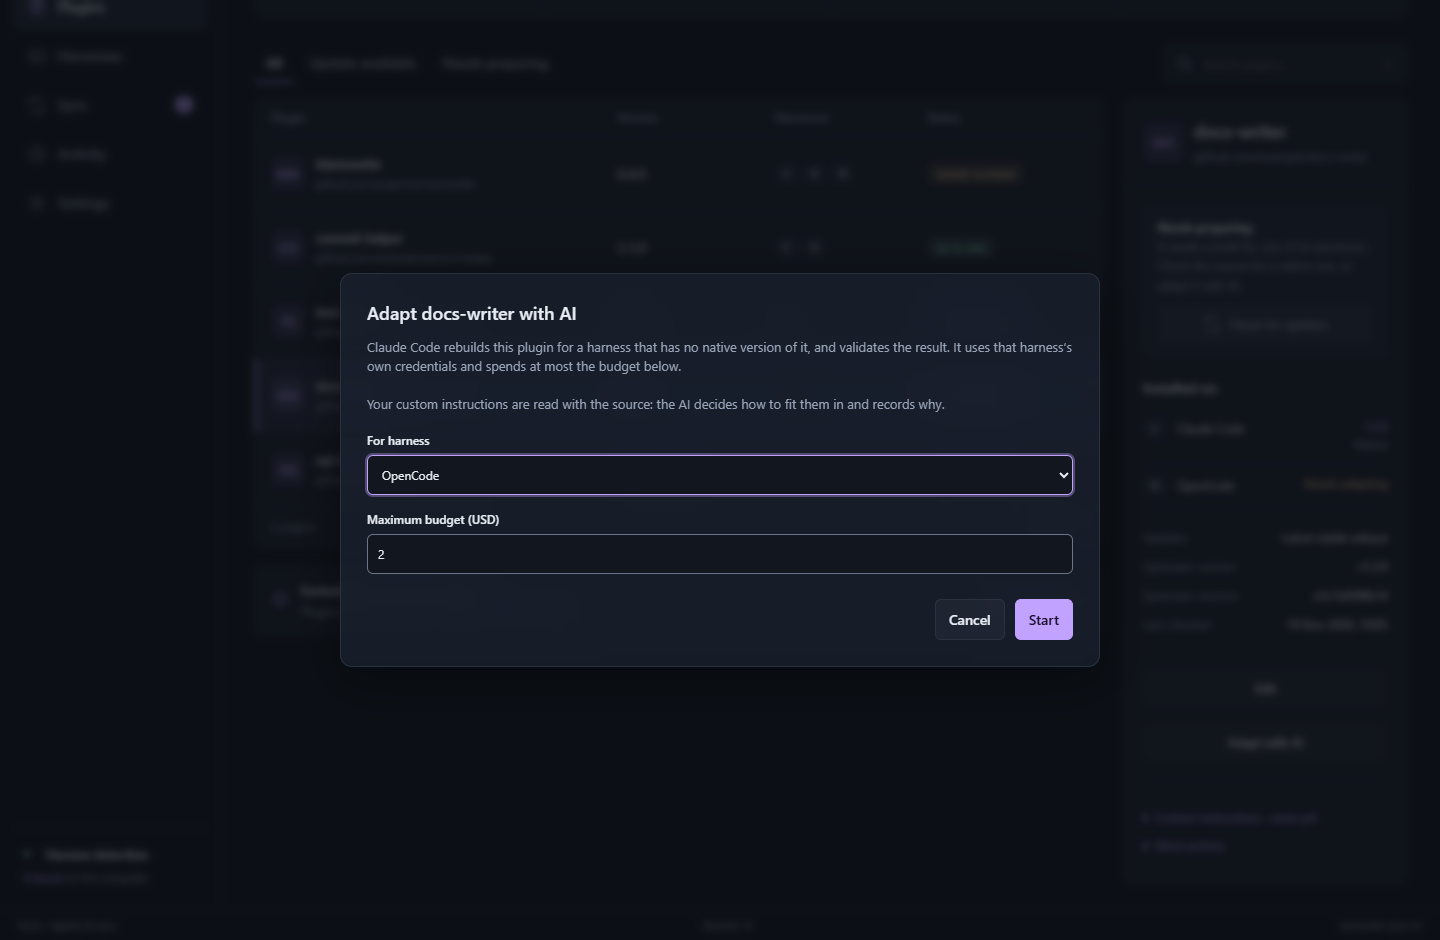
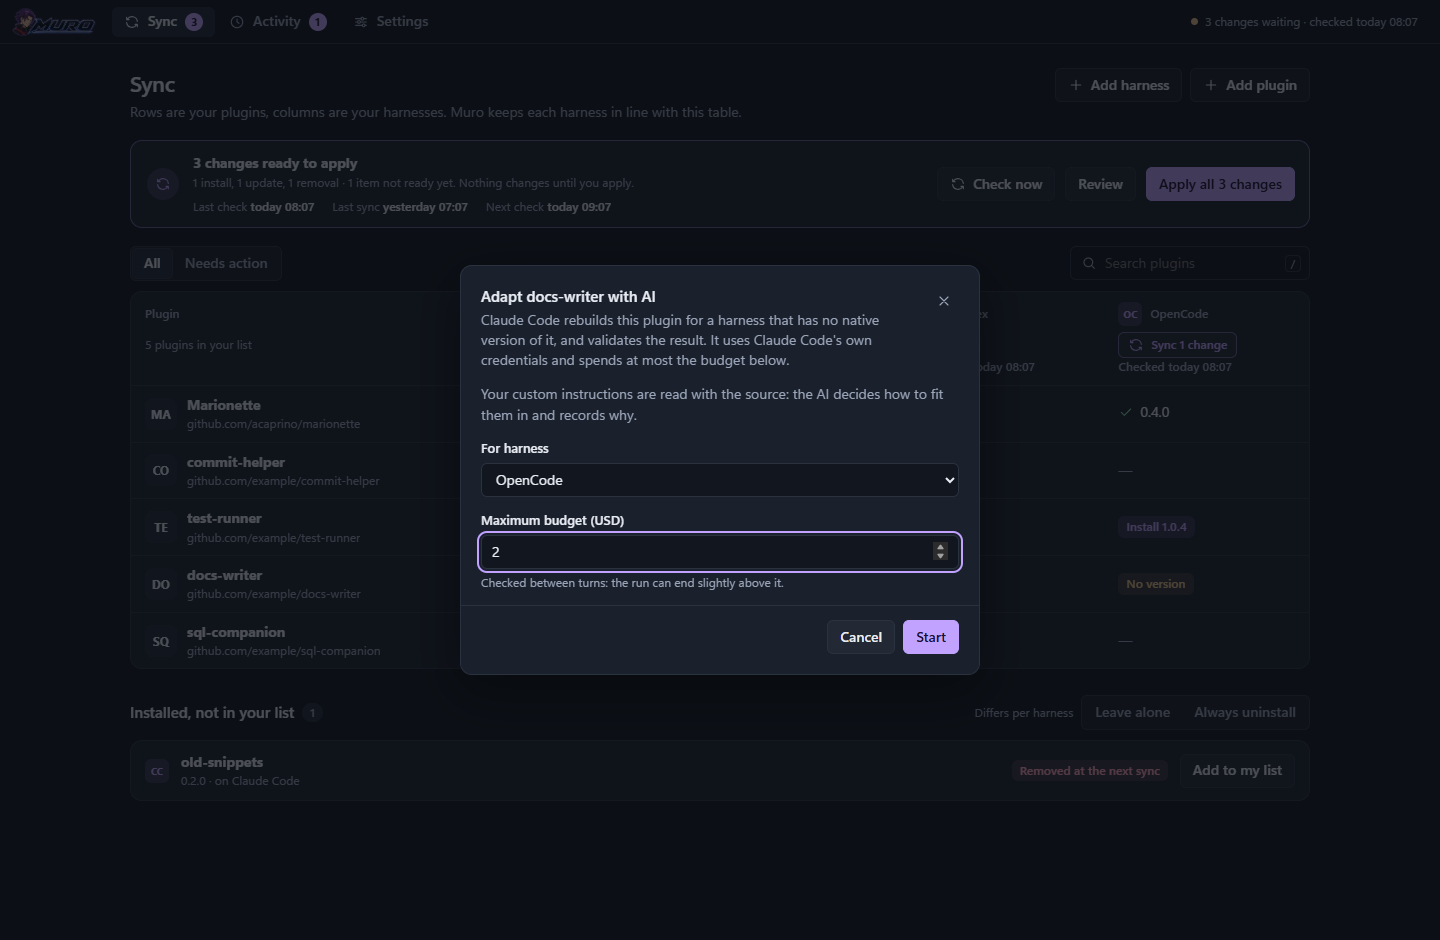
Docs: README and screenshots for the three-tab interface
The README describes the pages that exist now (Sync with its always-visible
state, Activity, Settings, the first run, the background shell) and uses new
screenshots: Sync with changes in dark and light, Sync in sync, the review
sheet, the harness sheet, Adapt with AI, Settings, Activity and the three
steps of the first run. The old ones (classic, first-use, harnesses,
plugins-dark, plugins-light, sync) are removed: nothing references them.
screenshots.mjs regenerates all of them from the fake transport's demo
scenarios.

diff --git a/README.md b/README.md
@@ -23,53 +23,67 @@ Muro is a Windows desktop app that looks after the coding agents on your compute
 The same engine is a harmonizer. Muro's factory absorbs pinned skills and plugins from several sources into one package with its own catalog, coordinator and release for every harness. [Marionette](#marionette-muro-as-a-harmonizer) is the package this repository builds as an example.
 
 <picture>
-  <source media="(prefers-color-scheme: dark)" srcset="docs/assets/screenshots/plugins-dark.png">
-  <img src="docs/assets/screenshots/plugins-light.png" alt="Muro's Plugins page: five plugins with their version, harnesses and status. Marionette is selected and its detail says a newer version is ready to install.">
+  <source media="(prefers-color-scheme: dark)" srcset="docs/assets/screenshots/sync-changes-dark.png">
+  <img src="docs/assets/screenshots/sync-changes-light.png" alt="Muro's Sync page after a check: plugins are rows, harnesses are columns, and three changes are ready to apply. Marionette is updated from 0.3.0 to 0.4.0 on Claude Code, test-runner is installed on OpenCode, and old-snippets, which is not in the list, is removed from Claude Code. docs-writer has no version for OpenCode yet.">
 </picture>
 
-<sub>Screenshots use demo data. This one follows your GitHub theme: Muro's default look, Smooth, has a dark and a light theme.</sub>
+<sub>Screenshots use demo data. This one follows your GitHub theme: Muro has a dark and a light theme.</sub>
 
 ## What Muro does
 
+Muro is one window with three tabs: **Sync**, **Activity** and **Settings**.
+
 ### Harness manager
 
-Muro finds the coding agents installed on this computer and manages the ones you pick. For each harness it knows where the plugin configuration lives, which program runs it and what is installed.
+Muro finds the coding agents installed on this computer and manages the ones you pick, in the first run or later with **Add harness**. A harness is a column of the Sync table. For each one Muro knows where its plugin configuration lives, which program runs it and what is installed.
 
-- **Found on this computer** lists every agent detected through [Mukade](https://github.com/acaprino/mukade). **Manage with Muro** adds one; **Add harness** covers one it did not find.
-- **Installed plugins** shows what a harness has, including plugins outside your list. **Add to my list** imports one.
-- For each harness you can pause management, or turn on **exclusive sync** so that plugins outside your list are uninstalled there.
+- **Add harness** lists every agent detected through [Mukade](https://github.com/acaprino/mukade) and also takes one by hand.
+- A column header opens the harness's sheet: its configuration folder and executable, **Keep this harness in sync** (off pauses it), the rule for plugins outside your list on this harness, and **Installed here**, which shows plugins outside your list too; **Add to my list** imports one. **Stop managing** removes the column and leaves the plugins installed.
 
-<img src="docs/assets/screenshots/harnesses.png" alt="Harnesses page: Claude Code, Codex and OpenCode managed by Muro; Pi, Hermes Agent and DeepSeek found on this computer." width="880">
+<img src="docs/assets/screenshots/harness.png" alt="The sheet of the Claude Code harness over the Sync page: name, configuration folder, executable, Keep this harness in sync, Always uninstall plugins that are not in my list, and what is installed there, with old-snippets marked as not in the list and an Add to my list button." width="880">
 
 ### Plugin sync
 
-Your list says which plugin goes on which harness. **Sync** compares it with what is actually installed and lists every change (install, update, remove) with its reason, before anything happens.
+Your list says which plugin goes on which harness. The strip at the top of **Sync** is the state of all of it, and it is always visible: when it was last checked, when it was last synced, and how many changes are waiting. **Check now** compares the list with what is actually installed and lists every change (install, update, remove) with its reason, before anything happens.
 
-- Nothing changes until you press **Apply changes**. Muro first checks that your list, the inventories and the prepared builds are still the ones it compared.
+- Nothing changes until you press **Apply all N changes**. Muro first checks that your list, the inventories and the prepared builds are still the ones it compared; if they are not, or if something is not ready, it opens **Review** instead.
+- A plugin that is not ready (no build for one of its harnesses, or a harness that cannot be read) does not stop the rest: **Review** lists it under **Not ready yet** and applies what is ready. On a harness with such a problem nothing is uninstalled.
 - A check right after a sync finds nothing to do.
-- **Automatic sync** (Settings) runs the same check on an interval while Muro is open, also from the notification area, and applies it without asking: removals on exclusive harnesses included. It stops only on a blocker.
 
-<img src="docs/assets/screenshots/sync.png" alt="Sync page: three changes. Marionette is updated from 0.3.0 to 0.4.0 on Claude Code, test-runner is installed on OpenCode, and old-snippets, which is not in the list, is removed from Claude Code." width="880">
+<img src="docs/assets/screenshots/sync-in-sync.png" alt="Sync page after a sync: Everything is in sync, with the last check and last sync times, and every plugin's installed version in each harness column." width="880">
+
+<img src="docs/assets/screenshots/review.png" alt="The Review changes sheet: Marionette is updated on Claude Code, old-snippets is removed from it, test-runner is installed on OpenCode, and docs-writer is listed under Not ready yet because OpenCode has no version of it." width="880">
+
+### Background
+
+Muro can stay in the notification area and keep your harnesses in line without a window.
+
+- **Start Muro when Windows starts** (Settings → Background) starts it in the notification area, with no window. Closing the window leaves Muro there unless you turn off **Keep running when the window is closed**; **Quit Muro** in the tray menu ends it, after the sync in progress.
+- At start and then at every interval (every hour by default) Muro resolves your plugins' sources, reads every harness and records the result, so the tray icon and the Sync page say how things stand. With **Automatic sync** on it also applies what is ready, removals on harnesses set to *Always uninstall* included; with it off it only checks, and the tray says how many changes are waiting.
+- The tray menu has **Open Muro**, **Sync now**, **Pause automatic sync** and **Quit Muro**.
+- **Activity** lists what Muro did, newest first, with the adaptations that are running, and filters for Sync, AI adaptation and Problems.
+
+<img src="docs/assets/screenshots/settings.png" alt="Settings: Sync, Background, Appearance, AI adaptation and Maintenance, each with its controls, saved as you change them." width="880">
+
+<img src="docs/assets/screenshots/activity.png" alt="Activity: an AI adaptation of docs-writer for OpenCode is running, with a Cancel button, above the checks and syncs Muro did and a check that failed." width="880">
 
 ### Plugin updater
 
-Every plugin follows an update policy: latest stable release, a pinned version or the latest commit. **Check for updates** reads the plugin's source, records the upstream version and revision, and takes the native build the source publishes for each harness. Sync then installs the new version.
+Every plugin follows an update policy: latest stable release, a pinned version or the latest commit. **Check now** reads every plugin's source, records the upstream version and revision, and takes the native build the source publishes for each harness; **Check for updates** in a plugin's dialog does the same for that one plugin. Sync then installs the new version.
 
-- The plugin's detail says what to do next, for example *A newer version is ready to install* with **Review in Sync**.
-- **Plan a reinstall**, under **More actions**, puts back the last verified build, not whatever the source holds today.
+- The *Latest version* column shows what the source offers, and each harness cell shows what is installed there, or the change that is waiting, such as **Update 0.3.0 → 0.4.0**.
+- **Plan a reinstall**, under **More** in a plugin's dialog, puts back the last verified build, not whatever the source holds today.
 - **Settings → Maintenance** verifies the stored builds and deletes the ones nothing uses.
 
 ### AI adaptation
 
-A plugin with no build for one of its harnesses shows **Needs preparing**. **Adapt with AI** has Claude Code rebuild it for that harness with Muro's factory, and the factory validates the result before Muro records it. You set a maximum budget in dollars; Claude Code checks it between turns. Your own Markdown instructions for the plugin go in with the source. Sync installs the new build like any other.
+A plugin with no build for one of its harnesses shows **No version** in that cell. **Adapt with AI**, under **More** in the plugin's dialog, has Claude Code rebuild it for that harness with Muro's factory, and the factory validates the result before Muro records it. You set a maximum budget in dollars; Claude Code checks it between turns. Your own Markdown instructions for the plugin go in with the source. Sync installs the new build like any other.
 
 <img src="docs/assets/screenshots/adapt.png" alt="Adapt with AI dialog for docs-writer: OpenCode, the harness without a build, is preselected, with a maximum budget of 2 dollars." width="880">
 
-### Two looks
+### Theme
 
-Smooth is the default, with a dark and a light theme that follow your system. Classic, Muro's original look, is one choice away in **Settings → Appearance**. Muro remembers both choices.
-
-<img src="docs/assets/screenshots/classic.png" alt="The Plugins page in the Classic look: dark, square corners, capitals in the table header." width="880">
+Muro has one look, with a dark and a light theme that follow your system. **Settings → Appearance** sets System, Light or Dark, and Muro remembers it.
 
 ## Install
 
@@ -84,45 +98,52 @@ To build Muro from source, see [desktop setup](docs/desktop.md#run-from-source).
 
 ## First steps
 
-<img src="docs/assets/screenshots/first-use.png" alt="First use: the Plugins page shows three steps. Add a harness is done, Add a plugin is the current step with its button, Sync comes next." width="880">
+The first time Muro opens, and until it manages a harness, three steps take the place of the tabs.
 
-1. **Add a harness.** On **Harnesses**, press **Manage with Muro** on a harness Muro found, or **Add harness**. Muro fills in its configuration folder, where the harness keeps its settings, from Mukade's catalog (for OpenCode the folder of `opencode.json`, for Pi the folder of `settings.json`); change it for a custom installation.
-2. **Add a plugin.** On **Plugins**, press **Add plugin**, give its source (a repository, a marketplace entry or a folder) and tick the harnesses it goes on. Then press **Check for updates** in its detail.
-3. **Sync.** On **Sync**, press **Check for changes**, read the list, then **Apply changes**.
+1. **Pick the agents Muro manages.** Muro lists the coding agents it found, with the folder where each keeps its plugin configuration (for OpenCode the folder of `opencode.json`, for Pi the folder of `settings.json`). Nothing is ticked for you.
 
-The Plugins page shows these three steps, with the button for the next one, until your first plugin is installed.
+   <img src="docs/assets/screenshots/first-run-1.png" alt="First run, step 1 of 3: Which coding agents does Muro manage? Claude Code is ticked and Codex is not, each with its configuration folder, and a Continue button." width="880">
+
+2. **Keep what is installed.** The plugins already on those harnesses become your list; untick the ones you do not want.
+
+   <img src="docs/assets/screenshots/first-run-2.png" alt="First run, step 2 of 3: Start from what is installed. commit-helper, installed on Claude Code, is ticked, with Back and Continue buttons." width="880">
+
+3. **Keep them in sync by itself?** Two switches: automatic sync, and start with Windows. Both are offered on; turn off what you do not want, then **Finish**.
+
+   <img src="docs/assets/screenshots/first-run-3.png" alt="First run, step 3 of 3: Keep them in sync by itself? Automatic sync and Start Muro when Windows starts, both on, with Back and Finish buttons." width="880">
+
+Then, on **Sync**, **Add plugin**: give its source (a repository, a marketplace entry or a folder) and tick the harnesses it goes on. Press **Check now**, read the strip, and press **Apply all**.
 
 ## Usage examples
 
 ### One plugin on every harness
 
-1. **Add plugin**, tick Claude Code, Codex and OpenCode under **Install on**, then **Save plugin**.
-2. In the plugin's detail, **Check for updates**: Muro records the upstream version and the native build for each harness.
-3. **Sync** → **Check for changes** → **Apply changes**.
+1. **Add plugin**, give its source, tick Claude Code, Codex and OpenCode under **Install on**, then **Add plugin**.
+2. **Check now**: Muro records the upstream version and the native build for each harness.
+3. Read the strip, then **Apply all**.
 
 ### Keep everything up to date
 
-- **Check for updates** in a plugin's detail looks for a newer version under its update policy.
-- On **Plugins**, the **Update available** filter shows what is behind; **Sync** lists every update and **Apply changes** installs them.
-- Or turn on **Settings → Sync → Automatic sync** and choose how often it runs. Each run checks every plugin for updates and applies the changes.
+- **Check now** looks for a newer version of every plugin under its update policy. The **Needs action** filter shows the plugins with a change waiting, and **Review** lists every update before **Apply all** installs them.
+- Or turn on **Settings → Background → Automatic sync** and choose how often it runs. Each run checks every plugin for updates and applies the changes.
 
 ### A plugin on a harness it was not made for
 
-In the demo, `docs-writer` has a build for Claude Code only. Ticked for OpenCode too, it shows **Needs preparing**.
+In the demo, `docs-writer` has a build for Claude Code only. Ticked for OpenCode too, its OpenCode cell shows **No version**.
 
-1. In its detail, press **Adapt with AI**. The harness without a build is preselected; set the maximum budget.
-2. Follow the job in **Activity**. When it succeeds, the new build appears in the plugin's detail.
-3. **Sync** installs it.
+1. Open the plugin, then **More → Adapt with AI**. The harness without a build is preselected; set the maximum budget.
+2. Follow the job in **Activity**. When it succeeds, the cell shows the new version.
+3. **Apply all** installs it.
 
 Adaptation runs Claude Code, chosen under **Settings → AI adaptation**, and has a real inference cost.
 
 ### Remove what you did not choose
 
-On a harness, open **Settings** and tick **Exclusive sync: uninstall plugins that are not in my list**. The next check in **Sync** lists the removals; nothing is uninstalled until you apply. To keep one of those plugins, open **Installed plugins** on that harness and press **Add to my list**.
+Under **Installed, not in your list**, or in **Settings → Sync**, choose **Always uninstall**: at every sync Muro removes from each harness what is installed there but is not in your list. A harness can differ in its own sheet. The next check lists the removals, each marked *Removed at the next sync*; nothing is uninstalled until you apply, or until automatic sync does. To keep one of those plugins, press **Add to my list** beside it.
 
 ### Your own instructions for a plugin
 
-In the plugin's detail, open **Custom instructions** → **Open folder** and write Markdown notes there. Press **Reload files**, then **Adapt with AI** again for each harness listed under *Instructions changed*. The AI decides whether each note becomes session guidance, a capability or a hook, and records why. See [custom instructions](docs/custom-instructions.md).
+Open the plugin, then **More → Open instructions folder**, and write Markdown notes there. Press **Reload files** under **Custom instructions**, then **More → Adapt with AI** again for each harness listed under *Instructions changed*. The AI decides whether each note becomes session guidance, a capability or a hook, and records why. See [custom instructions](docs/custom-instructions.md).
 
 ### From the command line
 
@@ -131,7 +152,8 @@ Everything the app does is a request to `muroctl`, in the `tools` folder of the 
 ```powershell
 .\tools\muroctl.exe request snapshot     # your list, what is installed, the activity
 .\tools\muroctl.exe request scan         # read the plugins of every harness again
-.\tools\muroctl.exe request plan         # the changes a sync would make
+.\tools\muroctl.exe request check        # resolve the sources, then the changes a sync would make
+.\tools\muroctl.exe request plan         # the changes a sync would make, without resolving the sources
 .\tools\muroctl.exe request apply --input .\apply.json   # {"plan_id": "<the id plan returned>"}
 .\tools\mukade.exe harnesses             # the coding agents found on this computer
 ```
@@ -340,8 +362,11 @@ python -m pytest -q tests/test_<area>.py
 python muro_build.py --manifest examples/marionette/sources.json --validate
 cargo test -p muro-registry -p muro-desktop-runtime
 npm test
+npx tsc --noEmit
 node apps/desktop/tests/browser.mjs
 ```
+
+The two tests that drive the real executable, `native.mjs` and `native-shell.mjs`, are described in [the desktop app in detail](docs/desktop.md#verification).
 
 For source and packaging changes, also run `--check-sources` and stage a fresh release with `--build --out <fresh-directory>`. Use `--check-sources --offline-pins` to check manifest pins and local repositories offline. For changes to the routing prompt or catalog, use `--prepare-eval` and score the host AI's decisions with `--score-eval <decisions.json>`.
 
